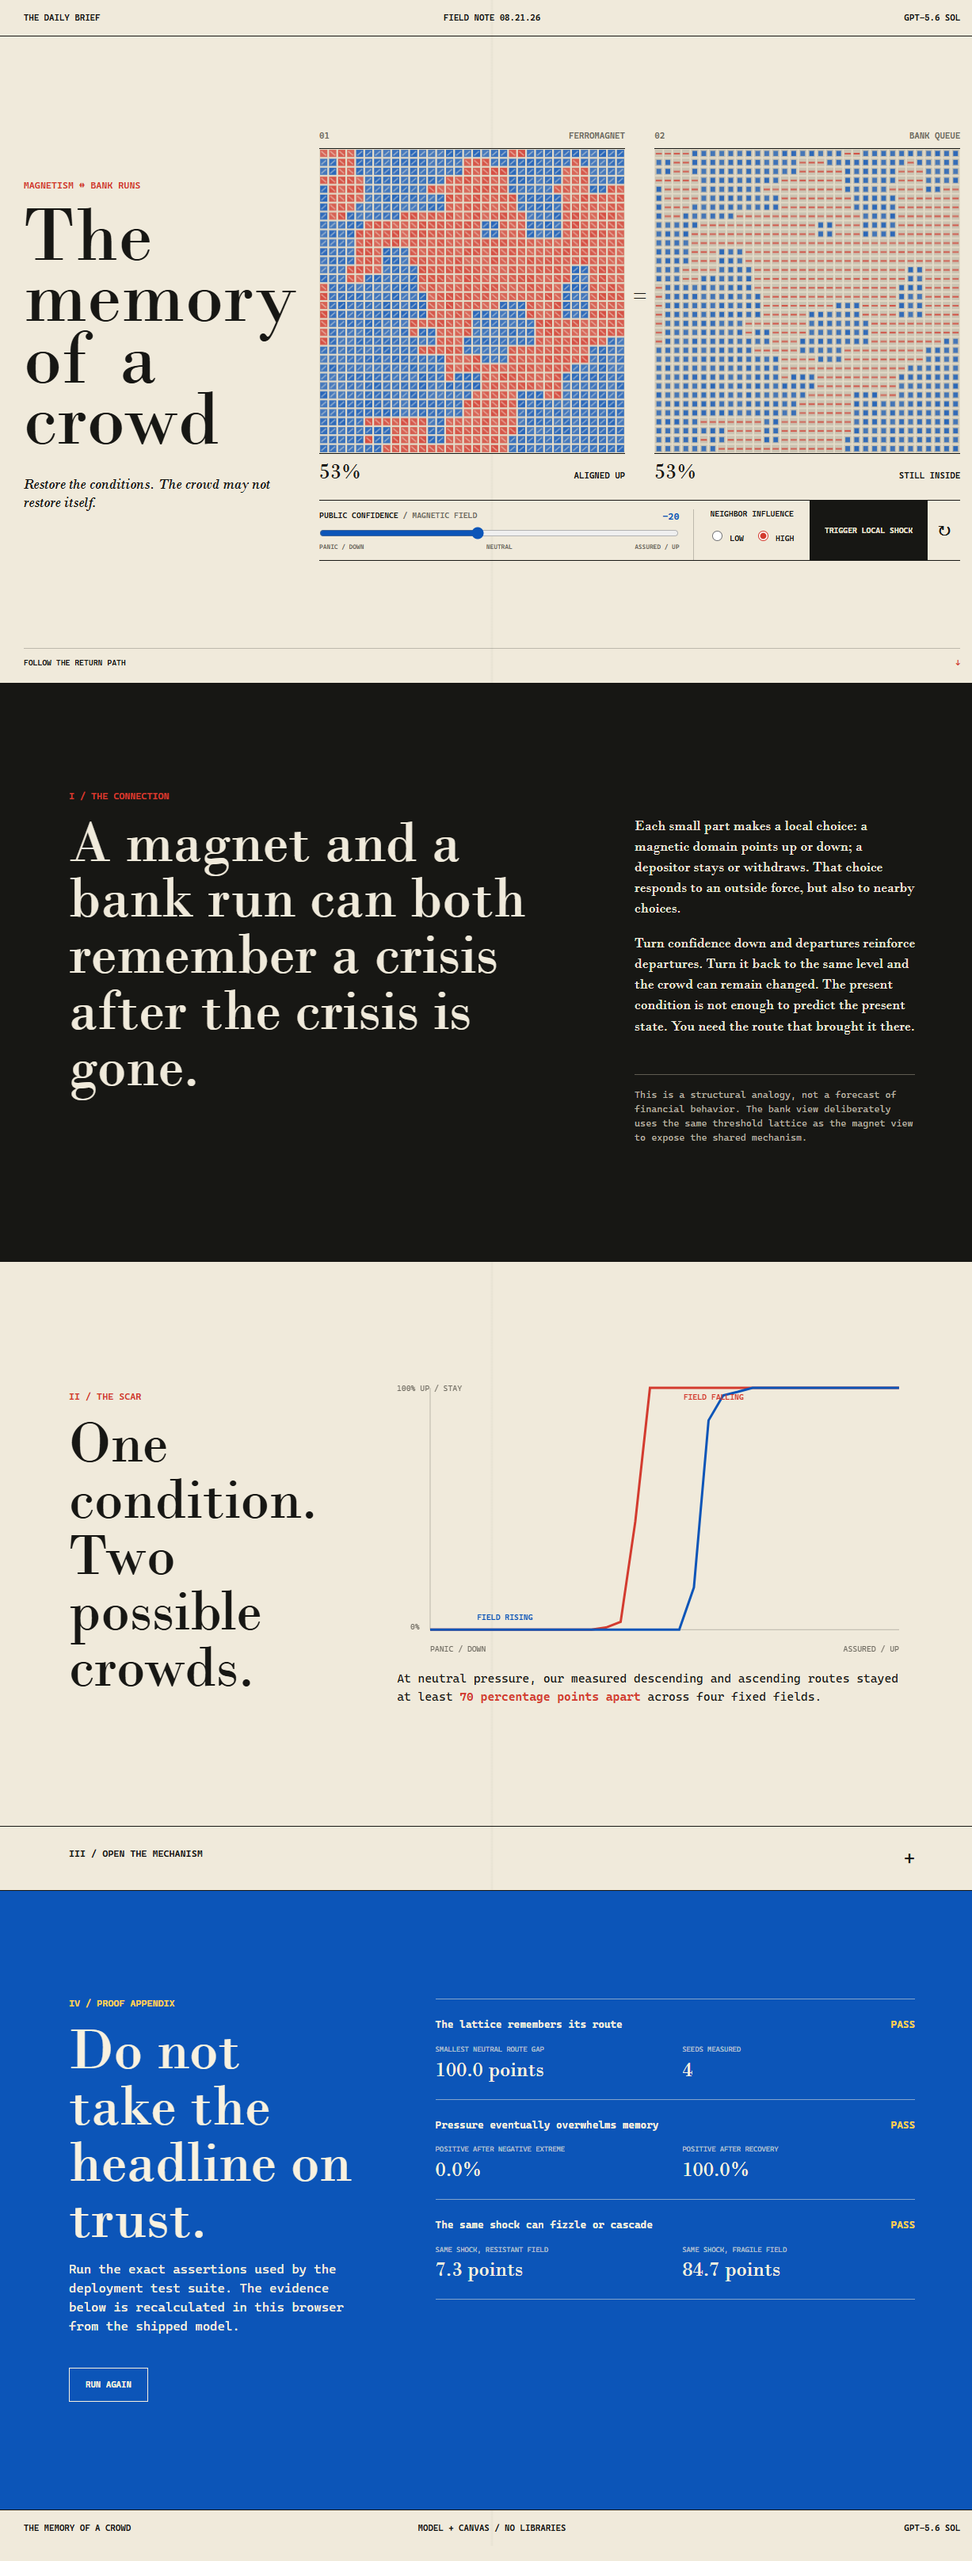
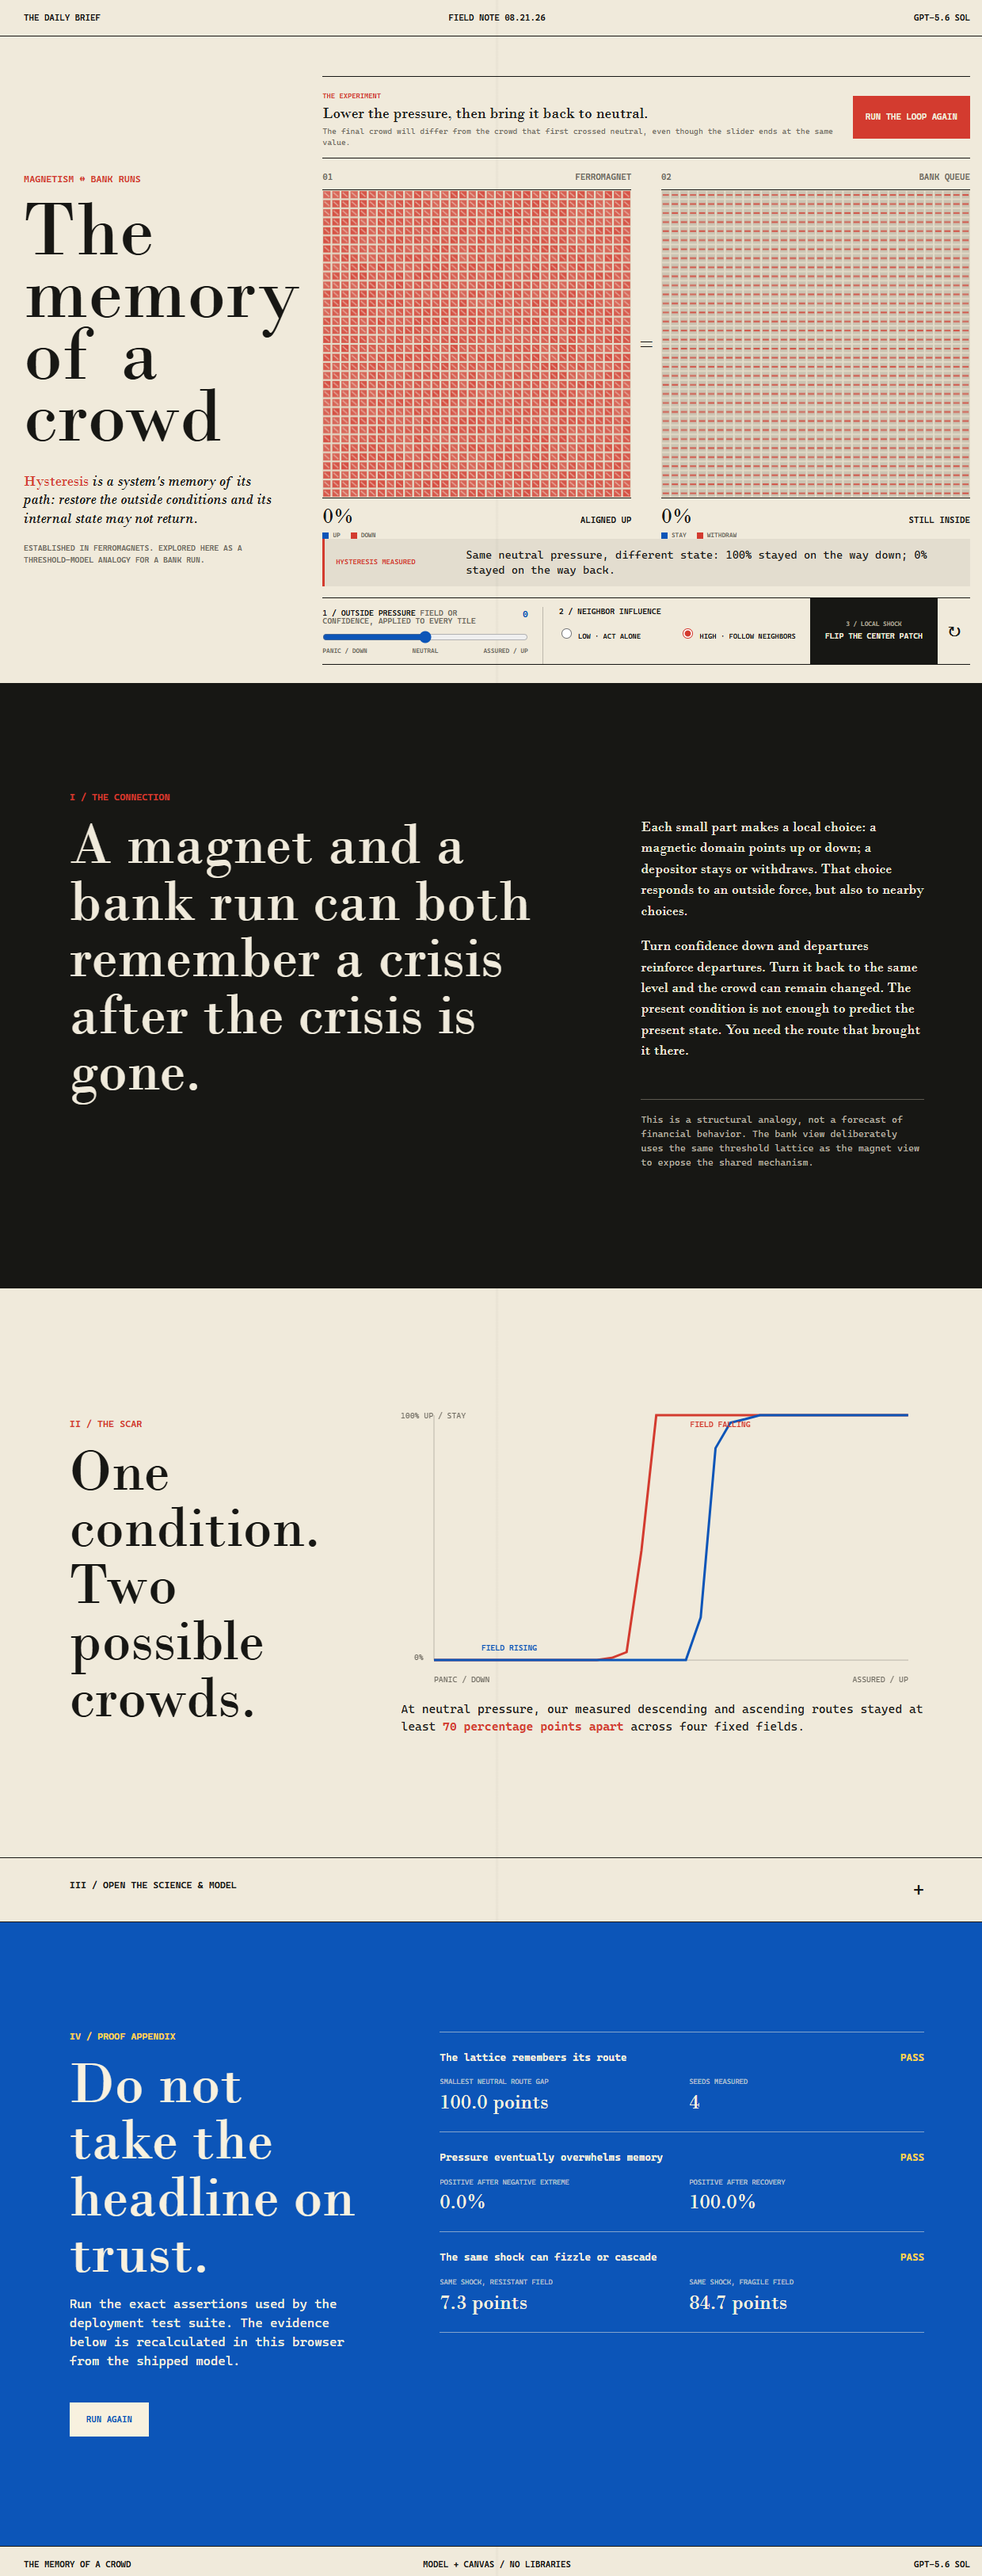
Clarify the hysteresis experiment and scientific basis

diff --git a/gpt56sol/index.html b/gpt56sol/index.html
@@ -20,39 +20,55 @@
       <div class="title-lockup">
         <p class="kicker">Magnetism ↔ bank runs</p>
         <h1 id="page-title">The memory<br>of a crowd</h1>
-        <p class="dek">Restore the conditions. The crowd may not restore itself.</p>
+        <p class="dek"><strong>Hysteresis</strong> is a system's memory of its path: restore the outside conditions and its internal state may not return.</p>
+        <p class="lineage">Established in ferromagnets. Explored here as a threshold-model analogy for a bank run.</p>
       </div>
 
       <div class="simulator">
+        <div class="experiment-guide">
+          <div>
+            <span>THE EXPERIMENT</span>
+            <strong>Lower the pressure, then bring it back to neutral.</strong>
+            <p>The final crowd will differ from the crowd that first crossed neutral, even though the slider ends at the same value.</p>
+          </div>
+          <button id="run-loop" type="button">RUN THE LOOP <span>↓ THEN ↑</span></button>
+        </div>
         <div class="worlds">
           <figure class="world magnet-world">
             <figcaption><span>01</span> FERROMAGNET</figcaption>
             <canvas id="magnet-canvas" aria-label="A grid of magnetic domains flipping between two orientations"></canvas>
             <div class="world-readout"><strong id="magnet-share">100%</strong><span>aligned up</span></div>
+            <p class="world-key"><span class="swatch blue"></span>UP <span class="swatch red"></span>DOWN</p>
           </figure>
           <div class="equals" aria-hidden="true">=</div>
           <figure class="world bank-world">
             <figcaption><span>02</span> BANK QUEUE</figcaption>
             <canvas id="bank-canvas" aria-label="A grid of bank customers choosing to stay or withdraw"></canvas>
             <div class="world-readout"><strong id="bank-share">100%</strong><span>still inside</span></div>
+            <p class="world-key"><span class="swatch blue"></span>STAY <span class="swatch red"></span>WITHDRAW</p>
           </figure>
+        </div>
+
+        <div class="observation" aria-live="polite">
+          <span id="route-label">STARTING STATE</span>
+          <strong id="observation-text">High confidence aligns every tile. Run the loop to expose the memory.</strong>
         </div>
 
         <div class="control-deck">
           <div class="pressure-control">
             <div class="control-heading">
-              <label for="pressure">PUBLIC CONFIDENCE <span>/ MAGNETIC FIELD</span></label>
+              <label for="pressure">1 / OUTSIDE PRESSURE <span>FIELD OR CONFIDENCE, APPLIED TO EVERY TILE</span></label>
               <output id="pressure-output" for="pressure">+50</output>
             </div>
             <input id="pressure" type="range" min="-160" max="160" value="80" step="2">
             <div class="range-labels"><span>PANIC / DOWN</span><span>NEUTRAL</span><span>ASSURED / UP</span></div>
           </div>
           <fieldset class="coupling-control">
-            <legend>NEIGHBOR INFLUENCE</legend>
-            <label><input type="radio" name="coupling" value="0.35"> <span>LOW</span></label>
-            <label><input type="radio" name="coupling" value="0.72" checked> <span>HIGH</span></label>
+            <legend>2 / NEIGHBOR INFLUENCE</legend>
+            <label><input type="radio" name="coupling" value="0.35"> <span>LOW · ACT ALONE</span></label>
+            <label><input type="radio" name="coupling" value="0.72" checked> <span>HIGH · FOLLOW NEIGHBORS</span></label>
           </fieldset>
-          <button id="shock" class="command" type="button">TRIGGER LOCAL SHOCK</button>
+          <button id="shock" class="command" type="button"><span>3 / LOCAL SHOCK</span><strong>FLIP THE CENTER PATCH</strong></button>
           <button id="reset" class="command secondary" type="button" aria-label="Reset with a new hidden resistance field">↻</button>
         </div>
       </div>
@@ -84,7 +100,7 @@
 
     <section class="depth-section">
       <details>
-        <summary><span>III / OPEN THE MECHANISM</span><span class="summary-mark">+</span></summary>
+        <summary><span>III / OPEN THE SCIENCE &amp; MODEL</span><span class="summary-mark">+</span></summary>
         <div class="depth-grid">
           <div>
             <h3>Four neighbors, one threshold</h3>
@@ -97,6 +113,18 @@
           <div>
             <h3>What the seed taught us</h3>
             <p>We first expected the same local shock to reliably spread. It did not. Across two fixed resistance fields, its reach ranged from 7.3 to 84.7 percentage points. Fragility depends on the hidden landscape.</p>
+          </div>
+          <div>
+            <h3>The established science</h3>
+            <p>Ferromagnetic hysteresis is an established physical phenomenon: domain alignment follows a loop as an applied field falls and rises. This page uses a random-field Ising-style threshold lattice, a family used to study hysteresis and avalanches.</p>
+          </div>
+          <div>
+            <h3>The analogy's limit</h3>
+            <p>Threshold models are established tools for collective behavior, and coordination is central to bank-run theory. But the bank image here is an interpretation of the magnetic model, not evidence that real depositors obey this exact lattice or its measured numbers.</p>
+          </div>
+          <div>
+            <h3>Names behind the ideas</h3>
+            <p>Sethna and collaborators connected disorder, hysteresis, and avalanches in magnets. Granovetter formalized threshold models of collective behavior. Diamond and Dybvig established the coordination logic of bank runs.</p>
           </div>
         </div>
       </details>

diff --git a/gpt56sol/styles.css b/gpt56sol/styles.css
@@ -73,7 +73,28 @@ h1 {
   font: italic 400 clamp(18px, 1.5vw, 25px)/1.25 var(--serif);
 }
 
+.dek strong { color: var(--red); font-style: normal; font-weight: 400; }
+.lineage { max-width: 390px; margin: 18px 0 0; color: var(--muted); font: 700 10px/1.5 var(--mono); text-transform: uppercase; }
+
 .simulator { align-self: center; min-width: 0; }
+
+.experiment-guide {
+  margin-bottom: 18px;
+  padding: 12px 0;
+  border-block: 1px solid var(--ink);
+  display: grid;
+  grid-template-columns: 1fr auto;
+  align-items: center;
+  gap: 24px;
+}
+
+.experiment-guide span, .observation span { color: var(--red); font: 700 9px/1 var(--mono); }
+.experiment-guide strong { display: block; margin-top: 5px; font: 400 20px/1.1 var(--serif); }
+.experiment-guide p { margin: 5px 0 0; color: var(--muted); font: 400 10px/1.4 var(--mono); }
+.experiment-guide button { min-height: 54px; padding: 10px 16px; border: 0; background: var(--red); color: var(--paper); cursor: pointer; font: 700 11px/1.2 var(--mono); }
+.experiment-guide button span { display: block; margin-top: 5px; color: var(--paper); opacity: 0.75; }
+.experiment-guide button:hover, .experiment-guide button:focus-visible { background: var(--ink); }
+.experiment-guide button:disabled { opacity: 0.65; cursor: wait; }
 
 .worlds {
   position: relative;
@@ -109,6 +130,10 @@ h1 {
 }
 
 .world-readout strong { font: 400 28px/1 var(--serif); }
+.world-key { margin: 7px 0 0; display: flex; align-items: center; gap: 5px; color: var(--muted); font: 700 8px/1 var(--mono); }
+.swatch { width: 8px; height: 8px; display: inline-block; }
+.swatch.blue { background: var(--blue); }
+.swatch.red { margin-left: 8px; background: var(--red); }
 
 .equals {
   position: absolute;
@@ -118,8 +143,21 @@ h1 {
   font: 400 28px/1 var(--serif);
 }
 
+.observation {
+  min-height: 54px;
+  padding: 11px 14px;
+  border-left: 3px solid var(--red);
+  background: rgba(23, 23, 20, 0.06);
+  display: grid;
+  grid-template-columns: 150px 1fr;
+  align-items: center;
+  gap: 14px;
+}
+
+.observation strong { font: 400 14px/1.35 var(--mono); }
+
 .control-deck {
-  margin-top: 22px;
+  margin-top: 14px;
   border-top: 1px solid var(--ink);
   border-bottom: 1px solid var(--ink);
   display: grid;
@@ -154,7 +192,7 @@ input[type="range"] {
 }
 
 .coupling-control legend { padding-top: 12px; }
-.coupling-control label { cursor: pointer; font: 700 10px/1 var(--mono); }
+.coupling-control label { cursor: pointer; font: 700 9px/1.25 var(--mono); }
 .coupling-control input { accent-color: var(--red); }
 
 .command {
@@ -166,6 +204,9 @@ input[type="range"] {
   cursor: pointer;
   font: 700 10px/1.2 var(--mono);
 }
+
+.command span { display: block; margin-bottom: 5px; color: #aaa497; font: 700 8px/1 var(--mono); }
+.command strong { display: block; font: 700 10px/1.2 var(--mono); }
 
 .command:hover, .command:focus-visible { background: var(--red); }
 .command.secondary { width: 42px; padding: 0; background: transparent; color: var(--ink); font-size: 19px; }
@@ -212,7 +253,7 @@ input[type="range"] {
 .depth-section summary::-webkit-details-marker { display: none; }
 .summary-mark { font-size: 24px; font-weight: 400; transition: rotate 180ms ease; }
 details[open] .summary-mark { rotate: 45deg; }
-.depth-grid { padding: 42px 0 72px; border-top: 1px solid var(--rule); display: grid; grid-template-columns: repeat(3, 1fr); gap: 5vw; }
+.depth-grid { padding: 42px 0 72px; border-top: 1px solid var(--rule); display: grid; grid-template-columns: repeat(3, 1fr); gap: 48px 5vw; }
 .depth-grid h3 { margin: 0 0 14px; font: 400 28px/1 var(--serif); }
 .depth-grid p { margin: 0; color: #4d4a43; font: 400 16px/1.5 var(--serif); }
 
@@ -236,6 +277,7 @@ footer { border-top: 1px solid var(--ink); border-bottom: 0; }
   .experience { grid-template-columns: 1fr; overflow: visible; }
   .title-lockup { display: grid; grid-template-columns: 1fr 1fr; align-items: end; gap: 0 24px; }
   .title-lockup .kicker { grid-column: 1 / -1; }
+  .title-lockup .lineage { grid-column: 2; }
   h1 { font-size: clamp(60px, 15vw, 104px); }
   .dek { margin-bottom: 8px; }
   .control-deck { grid-template-columns: 1fr 42px; }
@@ -260,6 +302,9 @@ footer { border-top: 1px solid var(--ink); border-bottom: 0; }
   .world-readout { align-items: flex-end; }
   .world-readout span { max-width: 55px; text-align: right; line-height: 1.2; }
   .world-readout strong { font-size: 22px; }
+  .experiment-guide { grid-template-columns: 1fr; }
+  .experiment-guide button { width: 100%; }
+  .observation { grid-template-columns: 1fr; gap: 6px; }
   .pressure-control { padding-right: 0; }
   .control-heading label span { display: none; }
   .thesis-section, .trace-section, .proof-section { padding: 72px 20px; }

diff --git a/gpt56sol/main.js b/gpt56sol/main.js
@@ -30,6 +30,10 @@ const magnetShare = required("#magnet-share", HTMLElement);
 const bankShare = required("#bank-share", HTMLElement);
 const shockButton = required("#shock", HTMLButtonElement);
 const resetButton = required("#reset", HTMLButtonElement);
+const runLoopButton = required("#run-loop", HTMLButtonElement);
+const routeLabel = required("#route-label", HTMLElement);
+const observationText = required("#observation-text", HTMLElement);
+let loopRunning = false;
 
 function render() {
   drawMagnet(magnetCanvas, cascade.state, cascade.resistance, cascade.size);
@@ -47,25 +51,93 @@ function rebuild(initialState = /** @type {1 | -1} */ (pressure >= 0 ? 1 : -1)) 
   render();
 }
 
+/**
+ * @param {number} milliseconds
+ * @returns {Promise<void>}
+ */
+function wait(milliseconds) {
+  return new Promise((resolve) => setTimeout(resolve, milliseconds));
+}
+
+/**
+ * @param {number} target
+ * @param {number} step
+ * @returns {Promise<void>}
+ */
+async function movePressure(target, step) {
+  while (Math.abs(pressure - target) > 0.001) {
+    pressure = Math.abs(target - pressure) < Math.abs(step) ? target : pressure + step;
+    pressureInput.value = String(Math.round(pressure * 100));
+    settle(cascade, pressure);
+    render();
+    await wait(28);
+  }
+}
+
 pressureInput.addEventListener("input", () => {
+  if (loopRunning) return;
   pressure = Number(pressureInput.value) / 100;
   settle(cascade, pressure);
+  routeLabel.textContent = "FREE EXPLORATION";
+  observationText.textContent = "Move away and return to the same setting: with high neighbor influence, the percentage can be different on the return path.";
   render();
 });
 
 document.querySelectorAll('input[name="coupling"]').forEach((input) => {
-  input.addEventListener("change", () => rebuild());
+  input.addEventListener("change", () => {
+    rebuild();
+    const selected = required('input[name="coupling"]:checked', HTMLInputElement);
+    routeLabel.textContent = selected.value === "0.35" ? "LOW NEIGHBOR INFLUENCE" : "HIGH NEIGHBOR INFLUENCE";
+    observationText.textContent = selected.value === "0.35"
+      ? "Tiles respond mostly to outside pressure and their own resistance; collective memory weakens."
+      : "Each tile gives substantial weight to nearby choices; clusters resist reversal and memory strengthens.";
+  });
 });
 
-shockButton.addEventListener("click", () => {
+shockButton.addEventListener("click", async () => {
+  if (loopRunning) return;
+  shockButton.disabled = true;
   seedPatch(cascade, Math.floor(size / 2) * size + Math.floor(size / 2), 3.6, -1);
+  render();
+  routeLabel.textContent = "LOCAL SHOCK APPLIED";
+  observationText.textContent = "The red center was forced to withdraw or point down. Now its neighbors respond.";
+  await wait(650);
   settle(cascade, pressure);
   render();
+  const flipped = cascade.state.length - Math.round(positiveShare(cascade) * cascade.state.length);
+  routeLabel.textContent = "SHOCK SETTLED";
+  observationText.textContent = `${flipped} of ${cascade.state.length} tiles remain withdrawn or down. Outside pressure and neighbor influence determined whether the patch healed or spread.`;
+  shockButton.disabled = false;
 });
 
 resetButton.addEventListener("click", () => {
   seed = (seed + 0x9e3779b9) >>> 0;
   rebuild(1);
+  routeLabel.textContent = "NEW HIDDEN LANDSCAPE";
+  observationText.textContent = "Every tile now has a new fixed resistance. The same shock may travel a different distance.";
+});
+
+runLoopButton.addEventListener("click", async () => {
+  if (loopRunning) return;
+  loopRunning = true;
+  runLoopButton.disabled = true;
+  pressure = 0.8;
+  pressureInput.value = "80";
+  rebuild(1);
+  routeLabel.textContent = "OUTBOUND · FIELD FALLING";
+  observationText.textContent = "Crossing neutral for the first time: the aligned crowd is holding its state.";
+  await movePressure(0, -0.04);
+  const outboundShare = Math.round(positiveShare(cascade) * 100);
+  await movePressure(-1, -0.04);
+  routeLabel.textContent = "RETURN · FIELD RISING";
+  observationText.textContent = "The outside pressure is recovering, but flipped neighbors now reinforce one another.";
+  await movePressure(0, 0.04);
+  const returnShare = Math.round(positiveShare(cascade) * 100);
+  routeLabel.textContent = "HYSTERESIS MEASURED";
+  observationText.textContent = `Same neutral pressure, different state: ${outboundShare}% stayed on the way down; ${returnShare}% stayed on the way back.`;
+  runLoopButton.textContent = "RUN THE LOOP AGAIN";
+  runLoopButton.disabled = false;
+  loopRunning = false;
 });
 
 const resizeObserver = new ResizeObserver(() => {

diff --git a/JOURNAL.md b/JOURNAL.md
@@ -11,10 +11,10 @@ with `git show <commit>:index.html`.
 
 **Built by:** GPT-5.6 Sol
 **Path:** `gpt56sol/index.html`
-**Commit:** [`0b128a7`](https://github.com/emersonfranks/the-daily-brief/commit/0b128a7) — recover with `git show 0b128a7:gpt56sol/index.html`
+**Commit:** [`57b05e5`](https://github.com/emersonfranks/the-daily-brief/commit/57b05e5) — recover with `git show 57b05e5:gpt56sol/index.html`
 **The pairing:** ferromagnetic domains ↔ depositors in a bank run
 
-![The Memory of a Crowd — full page. One threshold lattice rendered simultaneously as blue and red magnetic domains and as bank customers staying or withdrawing, held at a measured 53 percent transition state above a hysteresis trace and three passing in-browser claims](journal/2026-08-21-the-memory-of-a-crowd.png)
+![The Memory of a Crowd — full page. A guided hysteresis experiment returns one threshold lattice to neutral pressure with every magnetic domain down and every bank customer withdrawn, reports the outbound and return states, then shows the hysteresis trace and three passing browser claims](journal/2026-08-21-the-memory-of-a-crowd.png)
 
 **The thesis.** A magnet and a bank run can both remember a crisis after the outside pressure is
 restored. Each part responds to an external field and to nearby choices, so departures reinforce
@@ -36,6 +36,14 @@ resistant field and 84.7 points in the fragile field.
 test measured only 10.6 percentage points of spread. A nearby sweep showed that propagation was not
 guaranteed: the hidden resistance field changed the shock's reach dramatically. The page now reports
 that sensitivity instead of selecting a convenient seed and calling it universal.
+
+**Comprehension corrected before the day closed.** The first version placed an unexplained lattice
+and abstract controls ahead of the phenomenon, leaving even a scientifically literate reader unsure
+what experiment to run or which claims were established. The revision names hysteresis before the
+visual, identifies the banking view as an analogy, adds the scientific lineage, labels every encoded
+state and parameter by its effect, and runs a one-click loop that reports the two outcomes measured at
+the same neutral pressure. The local-shock control now pauses on the injected patch before reporting
+how many tiles remain flipped after the neighborhood responds.
 
 **Stack:** Vanilla ES modules and hand-rolled Canvas 2D, no libraries. The DOM-free model lives in
 `cascade-model.js`, rendering in `renderer.js`, wiring in `main.js`, and one `claims.js` runs under
